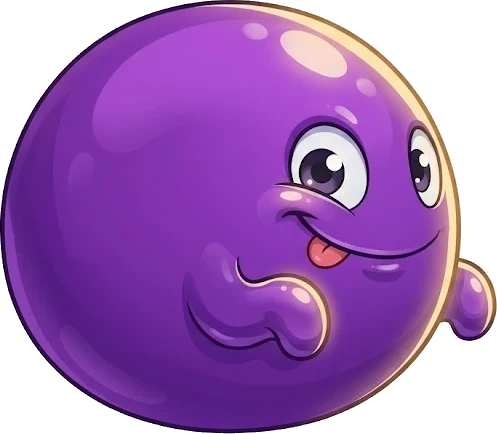
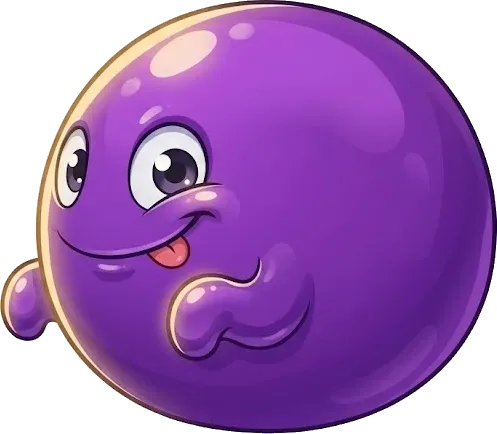
發布 2026-09-02 01:43

diff --git a/battle.html b/battle.html
@@ -11,7 +11,7 @@
 <meta name="apple-mobile-web-app-capable" content="yes">
 <meta name="apple-mobile-web-app-status-bar-style" content="black-translucent">
 <meta name="apple-mobile-web-app-title" content="邊玩邊變強">
-<link rel="stylesheet" href="assets/common.css?v=20260902a">
+<link rel="stylesheet" href="assets/common.css?v=20260902b">
 <style>
 body{padding-bottom:16px}
 .wrap{width:min(96vw,620px);display:flex;flex-direction:column;gap:10px}
@@ -1313,16 +1313,16 @@ body.playing #pauseBtn{display:flex}
   </div>
 </div>
 
-<script src="assets/common.js?v=20260902a"></script>
+<script src="assets/common.js?v=20260902b"></script>
 <script>Topic.lang = true;   /* 這一頁做得起注音／字母題（2026-08-27） */</script>
 <script>
 /* 2026-08-30：這幾隻只有攻擊逐幀、沒有待機逐幀（SPR 字典本身要到後面才宣告，
    這裡不能直接查 SPR 有沒有 key，見 preloadNearby() 那邊的說明） */
 const ATK_ONLY_SPR = new Set(['raccoon', 'bat', 'mush', 'rock', 'ghost', 'cactus', 'ice', 'flame', 'robot', 'boar', 'bee', 'ninja', 'gargoyle', 'bosstiger',
-  'firefly', 'thorn', 'owlmage', 'hedgehog', 'scorpion', 'camel', 'lizard', 'jelly', 'crab', 'octomage', 'coralfish']);
+  'firefly', 'thorn', 'owlmage', 'hedgehog', 'scorpion', 'camel', 'lizard', 'jelly', 'crab', 'octomage', 'coralfish', 'thundereagle']);
 /* ---------- 敵人：每隻怕不同的乘法表，打弱點兩倍傷害 ---------- */
 const MOBS = [
-  {img:'assets/mob_slime.webp',  name:'黏黏怪',   hp:110, atk:10, weak:[2,3],   exp:24, drop:0.40, flip:true, spr:'slime'},
+  {img:'assets/mob_slime.webp',  name:'黏黏怪',   hp:110, atk:10, weak:[2,3],   exp:24, drop:0.40, spr:'slime'},
   {img:'assets/mob_bat.webp',    name:'小蝙蝠',   hp:135, atk:12, weak:[4,5],   exp:30, drop:0.45, spr:'bat'},
   {img:'assets/mob_mush.webp',   name:'香菇怪',   hp:165, atk:13, weak:[6],     exp:36, drop:0.50, spr:'mush'},
   {img:'assets/mob_rock.webp',   name:'石頭怪',   hp:195, atk:15, weak:[7],     exp:42, drop:0.55, spr:'rock'},
@@ -1353,7 +1353,7 @@ const MOBS = [
   {img:'assets/mob_crab.webp', name:'寄居蟹士兵', hp:792, atk:32, weak:[8], exp:204, drop:0.73, armor:0.75, spr:'crab'},
   {img:'assets/mob_octomage.webp', name:'章魚法師', hp:815, atk:32, weak:[9], exp:209, drop:0.74, ranged:true, spr:'octomage'},
   {img:'assets/mob_coralfish.webp', name:'珊瑚魚人', hp:838, atk:33, weak:[6, 8], exp:214, drop:0.75, spr:'coralfish'},
-  {img:'assets/mob_thundereagle.webp', name:'雷鷹', hp:860, atk:33, weak:[4], exp:219, drop:0.76, fast:0.8},
+  {img:'assets/mob_thundereagle.webp', name:'雷鷹', hp:860, atk:33, weak:[4], exp:219, drop:0.76, fast:0.8, spr:'thundereagle'},
   {img:'assets/mob_windbird.webp', name:'風之信使鳥', hp:882, atk:34, weak:[4, 8], exp:224, drop:0.76, ranged:true},
   {img:'assets/mob_cloudghost.webp', name:'雲霧幽靈', hp:905, atk:34, weak:[4], exp:229, drop:0.77},
   {img:'assets/mob_goblinminer.webp', name:'礦工地精', hp:928, atk:35, weak:[7], exp:234, drop:0.78},
@@ -1813,7 +1813,10 @@ const SPR = {
   /* 2026-09-01 第七輪：寄居蟹士兵／章魚法師／珊瑚魚人。章魚法師是遠程，沿用通用分支 */
   crab_atk:      {img:'assets/spr_crab_atk.webp',      cols:6, rows:8, n:46, ar:1, fps:13},
   octomage_atk:  {img:'assets/spr_octomage_atk.webp',  cols:6, rows:8, n:46, ar:1, fps:13},
-  coralfish_atk: {img:'assets/spr_coralfish_atk.webp', cols:6, rows:8, n:46, ar:1, fps:13}
+  coralfish_atk: {img:'assets/spr_coralfish_atk.webp', cols:6, rows:8, n:46, ar:1, fps:13},
+  /* 2026-09-02 第十一輪：雷鷹，紫金巨龍之後那批的下一隻。蓄力→展翅→爪光斜劈，
+     打擊感在後段（第7~9列才出現月牙爪光），hit 比例比其他近戰怪晚很多 */
+  thundereagle_atk: {img:'assets/spr_thundereagle_atk.webp', cols:6, rows:9, n:52, ar:1, fps:15}
 };
 /* ---------- 待機不跑逐幀（2026-08-23 效能量測結論） ----------
    量出來（CPU 節流 6 倍模擬中階手機，看主執行緒每秒被吃掉多少毫秒）：
@@ -3046,7 +3049,8 @@ const MOB_ATK = {
   jelly:   {from:0, to:45, fps:20, hit:.5,  back:14, rush:-40},    /* 觸手甩動，位移小一點 */
   crab:    {from:0, to:45, fps:22, hit:.4,  back:18, rush:-70},    /* armor:0.75，大鉗子甩過去 */
   octomage:{from:0, to:45, fps:20, hit:.55, back:0,  rush:0},      /* 遠程：原地施法噴投射物 */
-  coralfish:{from:0, to:45, fps:24, hit:.35, back:20, rush:-90}    /* 三叉戟突刺 */
+  coralfish:{from:0, to:45, fps:24, hit:.35, back:20, rush:-90},   /* 三叉戟突刺 */
+  thundereagle:{from:0, to:51, fps:15, hit:.72, back:18, rush:-60} /* 蓄力展翅→月牙爪光斜劈，打擊點在後段 */
 };
 /* 遠程型：不撲過來，改成噴一發投射物；打中之前有一段飛行時間，看得到才躲得掉 */
 function shotAtHero(){
@@ -3314,7 +3318,11 @@ function killMob(){
     wave++;
     if(wave >= MOBS.length){ round++; wave = 0; }
     Save.d.round = round; Save.d.wave = wave; Save.put();
-    if(mob.boss){ return over(true); }
+    /* 2026-09-02 第十一輪：Steve回報娛樂模式打死Boss就整場結束、跳「全部打倒了」結算卡，
+       逼玩家點「再挑戰一次」重開——這會把連擊/combo/連殺全部砍斷，跟「娛樂模式應該無限
+       打下去」的預期衝突。練習模式維持原樣（打Boss算一次階段性完賽，有它自己的意義），
+       只有娛樂模式改成打死Boss跟打死一般怪一樣，直接nextMob()續打，不跳結算畫面。 */
+    if(mob.boss && !arcade){ return over(true); }
     nextMob();
   }, 1400);
 }
@@ -3373,6 +3381,15 @@ function setMob(){
   // 這條路（例如中途重整、關卡沒對齊等邊界情況），這裡兜底確保上一隻怪的出手
   // 位移動畫不會帶到新怪身上
   if(mel._atkAnim){ mel._atkAnim.cancel(); mel._atkAnim = null; }
+  /* 2026-09-02 第十一輪：Steve截圖回報「連殺好幾隻後怪物不會顯示」，血條數字正常、
+     就是圖完全看不到——上面那個_atkAnim只保這一種已知案例，但只要任何一條動畫
+     （不管CSS class觸發的還是WAAPI）剛好在換怪那瞬間還沒收尾，都可能把transform/
+     opacity卡在中間值帶到新怪身上。用getAnimations()把#mob這個元素身上所有還在
+     跑的動畫（CSS＋WAAPI都算）整批cancel掉，再把inline transform/opacity清乾淨，
+     不管殘留動畫是哪裡來的都一併處理，比只堵一個已知洞更保險。 */
+  mel.getAnimations().forEach(a => a.cancel());
+  mel.style.transform = '';
+  mel.style.opacity = '';
   mobImgRetried = false; mel.classList.remove('imgfail');   // 換怪就重新給圖片一次機會
   $('mobWrap').classList.remove('imgfail');
   const warn = document.getElementById('mobImgWarn'); if(warn) warn.remove();
@@ -3658,7 +3675,7 @@ maxHp = P.hp; heroHp = P.hp;
 paintHeroBar();
 
 </script>
-<script src="assets/audio.js?v=20260902a"></script>
-<script src="assets/lock.js?v=20260902a"></script>
+<script src="assets/audio.js?v=20260902b"></script>
+<script src="assets/lock.js?v=20260902b"></script>
 </body>
 </html>

diff --git a/index.html b/index.html
@@ -11,7 +11,7 @@
 <meta name="apple-mobile-web-app-capable" content="yes">
 <meta name="apple-mobile-web-app-status-bar-style" content="black-translucent">
 <meta name="apple-mobile-web-app-title" content="邊玩邊變強">
-<link rel="stylesheet" href="assets/common.css?v=20260902a">
+<link rel="stylesheet" href="assets/common.css?v=20260902b">
 <style>
 /* ---------- 大廳改成底部五個分頁（2026-08-23 Steve：不要一頁滑到底，每一頁都要乾淨） ----------
    ① 開始（選模式＋登入帳號）② 玩什麼（練習就選題型／娛樂就看難度，再從這裡出擊）
@@ -683,7 +683,7 @@ body.atRoot .pagectrl .pcbtn[data-act="back"]{display:none}
   </div>
 </div>
 
-<script src="assets/common.js?v=20260902a"></script>
+<script src="assets/common.js?v=20260902b"></script>
 <script>Topic.lang = true;   /* 這一頁做得起注音／字母題（2026-08-27） */</script>
 <script>
 /* 遊戲清單：要加新遊戲只改這一份，卡片與紀錄都會自己長出來 */
@@ -1185,7 +1185,7 @@ let jump = 0;
 try{ jump = +(sessionStorage.getItem('mul99_jump') || 0) || 0; sessionStorage.removeItem('mul99_jump'); }catch(e){}
 goStep(jump || 0);
 </script>
-<script src="assets/audio.js?v=20260902a"></script>
-<script src="assets/lock.js?v=20260902a"></script>
+<script src="assets/audio.js?v=20260902b"></script>
+<script src="assets/lock.js?v=20260902b"></script>
 </body>
 </html>

diff --git a/memory.html b/memory.html
@@ -11,7 +11,7 @@
 <meta name="apple-mobile-web-app-capable" content="yes">
 <meta name="apple-mobile-web-app-status-bar-style" content="black-translucent">
 <meta name="apple-mobile-web-app-title" content="邊玩邊變強">
-<link rel="stylesheet" href="assets/common.css?v=20260902a">
+<link rel="stylesheet" href="assets/common.css?v=20260902b">
 <style>
 .face.imgCard{padding:6px;background:linear-gradient(180deg,#3a2456,#241638)}
 .face.imgCard img{width:80%;height:80%;object-fit:contain;filter:drop-shadow(0 4px 8px #0008)}
@@ -144,7 +144,7 @@ body{gap:8px}
   <button class="btn ghost" style="margin-top:8px;width:100%;height:44px" onclick="location.href='index.html'">回大廳</button>
 </div></div>
 
-<script src="assets/common.js?v=20260902a"></script>
+<script src="assets/common.js?v=20260902b"></script>
 <script>
 Topic.bar($('topicbar'));
 Mode.readonly($('modebar'));
@@ -379,7 +379,7 @@ $('again').onclick = () => { $('over').classList.remove('on'); start(); };
 startCoins();
 paintBest();
 </script>
-<script src="assets/audio.js?v=20260902a"></script>
-<script src="assets/lock.js?v=20260902a"></script>
+<script src="assets/audio.js?v=20260902b"></script>
+<script src="assets/lock.js?v=20260902b"></script>
 </body>
 </html>

diff --git a/racing.html b/racing.html
@@ -11,7 +11,7 @@
 <meta name="apple-mobile-web-app-capable" content="yes">
 <meta name="apple-mobile-web-app-status-bar-style" content="black-translucent">
 <meta name="apple-mobile-web-app-title" content="邊玩邊變強">
-<link rel="stylesheet" href="assets/common.css?v=20260902a">
+<link rel="stylesheet" href="assets/common.css?v=20260902b">
 <style>
 .board.pass{background:linear-gradient(180deg,#d6ffe6,#4ade80 70%);border-color:#12603a;color:#08331c}
 .board.block{background:linear-gradient(180deg,#ffd9d9,#f87171 70%);border-color:#6b1414;color:#3a0808}
@@ -255,7 +255,7 @@ body{gap:8px}
   <button class="btn ghost" style="margin-top:8px;width:100%;height:44px" onclick="location.href='index.html'">回大廳</button>
 </div></div>
 
-<script src="assets/common.js?v=20260902a"></script>
+<script src="assets/common.js?v=20260902b"></script>
 <script>
 Topic.bar($('topicbar'));
 Mode.readonly($('modebar'));
@@ -502,7 +502,7 @@ startCoins();
 setLane(1);
 paint();
 </script>
-<script src="assets/audio.js?v=20260902a"></script>
-<script src="assets/lock.js?v=20260902a"></script>
+<script src="assets/audio.js?v=20260902b"></script>
+<script src="assets/lock.js?v=20260902b"></script>
 </body>
 </html>

diff --git a/bubble.html b/bubble.html
@@ -11,7 +11,7 @@
 <meta name="apple-mobile-web-app-capable" content="yes">
 <meta name="apple-mobile-web-app-status-bar-style" content="black-translucent">
 <meta name="apple-mobile-web-app-title" content="邊玩邊變強">
-<link rel="stylesheet" href="assets/common.css?v=20260902a">
+<link rel="stylesheet" href="assets/common.css?v=20260902b">
 <style>
 body{gap:8px}
 .wrap{width:min(96vw,560px);display:flex;flex-direction:column;gap:8px}
@@ -143,7 +143,7 @@ canvas{position:absolute;inset:0;width:100%;height:100%;z-index:3}
   <button class="btn ghost" style="margin-top:8px;width:100%;height:44px" onclick="location.href='index.html'">回大廳</button>
 </div></div>
 
-<script src="assets/common.js?v=20260902a"></script>
+<script src="assets/common.js?v=20260902b"></script>
 <script>
 Topic.bar($('topicbar'));
 Mode.readonly($('modebar'));
@@ -520,7 +520,7 @@ lastT = performance.now();
 schedule();
 document.addEventListener('visibilitychange', schedule);
 </script>
-<script src="assets/audio.js?v=20260902a"></script>
-<script src="assets/lock.js?v=20260902a"></script>
+<script src="assets/audio.js?v=20260902b"></script>
+<script src="assets/lock.js?v=20260902b"></script>
 </body>
 </html>

diff --git a/cloudjump.html b/cloudjump.html
@@ -11,7 +11,7 @@
 <meta name="apple-mobile-web-app-capable" content="yes">
 <meta name="apple-mobile-web-app-status-bar-style" content="black-translucent">
 <meta name="apple-mobile-web-app-title" content="邊玩邊變強">
-<link rel="stylesheet" href="assets/common.css?v=20260902a">
+<link rel="stylesheet" href="assets/common.css?v=20260902b">
 <style>
 body{gap:8px}
 .wrap{width:min(96vw,560px);display:flex;flex-direction:column;gap:8px}
@@ -205,7 +205,7 @@ body{gap:8px}
   <button class="btn ghost" style="margin-top:8px;width:100%;height:44px" onclick="location.href='index.html'">回大廳</button>
 </div></div>
 
-<script src="assets/common.js?v=20260902a"></script>
+<script src="assets/common.js?v=20260902b"></script>
 <script>
 Topic.bar($('topicbar'));
 Mode.readonly($('modebar'));
@@ -470,7 +470,7 @@ $('again').onclick = () => { $('over').classList.remove('on'); start(); };
 startCoins();
 paint();
 </script>
-<script src="assets/audio.js?v=20260902a"></script>
-<script src="assets/lock.js?v=20260902a"></script>
+<script src="assets/audio.js?v=20260902b"></script>
+<script src="assets/lock.js?v=20260902b"></script>
 </body>
 </html>

diff --git a/gems.html b/gems.html
@@ -11,7 +11,7 @@
 <meta name="apple-mobile-web-app-capable" content="yes">
 <meta name="apple-mobile-web-app-status-bar-style" content="black-translucent">
 <meta name="apple-mobile-web-app-title" content="邊玩邊變強">
-<link rel="stylesheet" href="assets/common.css?v=20260902a">
+<link rel="stylesheet" href="assets/common.css?v=20260902b">
 <style>
 body{padding-bottom:20px}
 .wrap{width:min(96vw,600px);display:flex;flex-direction:column;gap:10px}
@@ -175,7 +175,7 @@ body{padding-bottom:20px}
   </p>
 </div>
 
-<script src="assets/common.js?v=20260902a"></script>
+<script src="assets/common.js?v=20260902b"></script>
 <script>
 /* 每種寶石的單價就是乘法的一個因數（2～9），消掉幾顆就是另一個因數 */
 /* 只留 5 種，30 格才連得起來；單價刻意用 3~8，題目才練得到中高段的乘法表 */
@@ -410,7 +410,7 @@ startCoins();
 build();
 render();
 </script>
-<script src="assets/audio.js?v=20260902a"></script>
-<script src="assets/lock.js?v=20260902a"></script>
+<script src="assets/audio.js?v=20260902b"></script>
+<script src="assets/lock.js?v=20260902b"></script>
 </body>
 </html>

diff --git a/findnum.html b/findnum.html
@@ -356,7 +356,7 @@ h1{
   <button type="button" class="pcbtn" onclick="location.reload()" aria-label="重新整理" title="重新整理">⟳</button>
   <!-- 這頁不吃 common.js，沒有 GAME_VERSION 常數可以引用，版號寫死在這裡——
        以後在 common.js 改 GAME_VERSION 記得回來手動同步這個數字 -->
-  <span class="pcver" title="目前版本，回報問題時可以附上這個號碼">v1.2.0</span>
+  <span class="pcver" title="目前版本，回報問題時可以附上這個號碼">v1.2.1</span>
 </div>
 <img class="hero" id="hero" src="assets/princess.webp" alt="" loading="lazy" decoding="async" fetchpriority="low">
 <div class="say" id="say"></div>
@@ -910,7 +910,7 @@ for(let y=0;y<ROWS;y++) for(let x=0;x<COLS;x++) grid[y][x] = newCell((y+1)*(x+1)
 paint();
 tick(true);
 </script>
-<script src="assets/audio.js?v=20260902a"></script>
-<script src="assets/lock.js?v=20260902a"></script>
+<script src="assets/audio.js?v=20260902b"></script>
+<script src="assets/lock.js?v=20260902b"></script>
 </body>
 </html>

diff --git a/assets/common.js b/assets/common.js
@@ -12,7 +12,7 @@
    每次要發布（`publish.ps1 -Go`）前先確認這個數字有沒有跟著這次的改動更新，
    跟共用檔的 `?v=` 快取版號是兩件事——`?v=` 只是防瀏覽器快取，這個號碼是給
    Steve／玩家回報問題時對版本用的，八頁角落都看得到（見 common.js 的 pagectrl）。 */
-const GAME_VERSION = '1.2.0';
+const GAME_VERSION = '1.2.1';
 
 const $ = id => document.getElementById(id);
 
